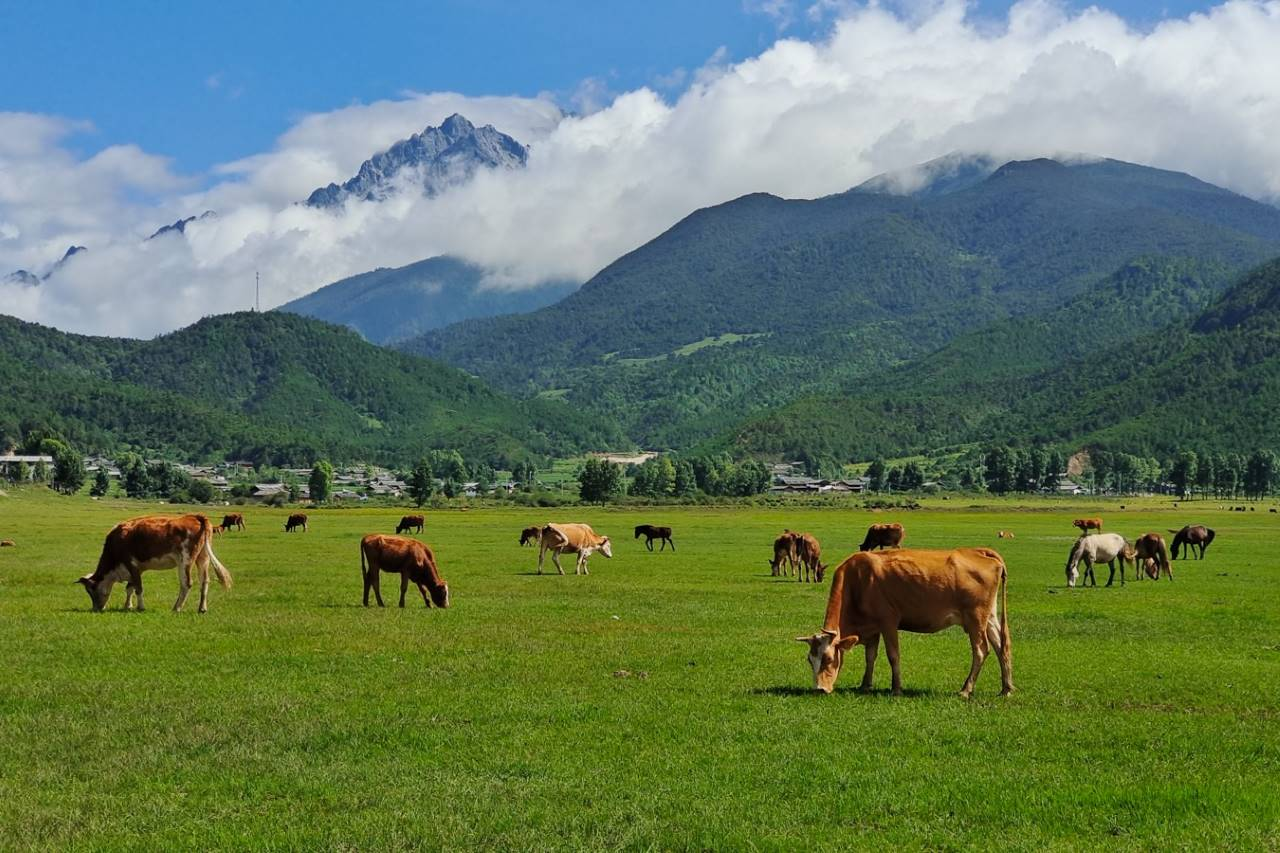
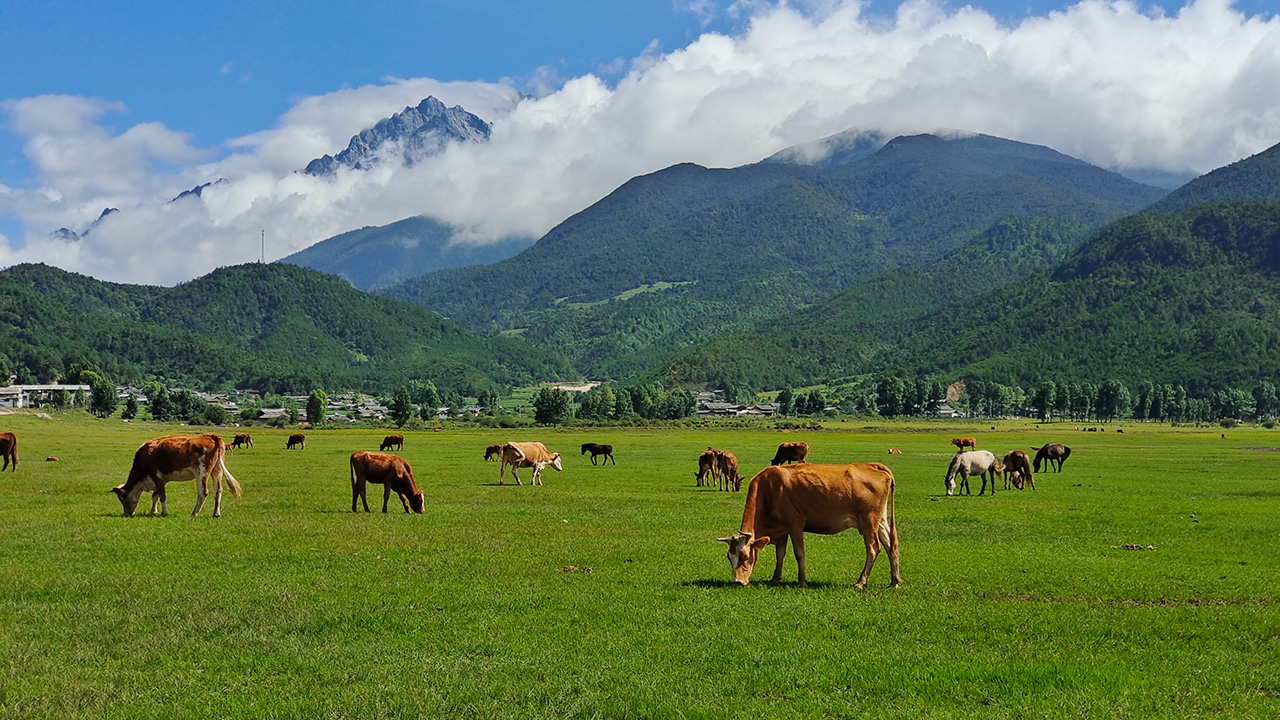
Publish

diff --git a/content/pages/index.md b/content/pages/index.md
@@ -18,17 +18,13 @@ sections:
           - pr-1
     media:
       type: ImageBlock
-      url: /images/IMG_20210807_105145.jpg
+      url: /images/hero.jpg
       altText: Image alt text placeholder
       elementId: ''
       styles:
         self:
           borderRadius: medium
   - type: GenericSection
-    title:
-      text: Authentic Ecotourism Adventures in Lijiang and Shangri-La
-      color: text-dark
-      type: TitleBlock
     subtitle: Northwest Yunnan / Southeast Tibet
     text: >
       Immerse yourself in the breathtaking landscapes and vibrant cultures of
@@ -68,6 +64,12 @@ sections:
         justifyContent: center
         margin:
           - ml-0
+      text:
+        textAlign: justify
+    title:
+      type: TitleBlock
+      text: Authentic Ecotourism Adventures in Lijiang and Shangri-La
+      color: text-dark
   - type: FeaturedItemsSection
     title:
       type: TitleBlock
